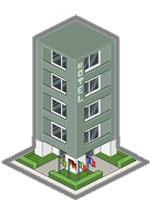
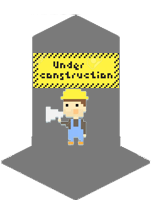
fix de quelques bug

diff --git a/src/server/CityUpdater.cpp b/src/server/CityUpdater.cpp
@@ -2,6 +2,7 @@
 #include "UserManager.hpp"
 
 pthread_mutex_t CityUpdater::visitormutex(PTHREAD_MUTEX_INITIALIZER);
+pthread_mutex_t CityUpdater::buildingmutex(PTHREAD_MUTEX_INITIALIZER);
 
 
 
@@ -150,7 +151,7 @@ CityUpdater::CityUpdater(Map<Field>* map,std::vector<Player*>* pvPtr, Gamemode g
 
 void CityUpdater::run(){
     currentTimer.start();
-    Timer<CityUpdater> generateTimer(this, 1), advanceTimer(this, 0), buildingTimer(this, 4), roadBlockTimer(this, 20), payTimer(this, 86400), cityTimer(this);
+    Timer<CityUpdater> generateTimer(this, 1), advanceTimer(this, 0), buildingTimer(this, 4), roadBlockTimer(this, 20), payTimer(this, 48), cityTimer(this);
     generateTimer.setFunc(CityUpdater::runGenerateVisitors);
     advanceTimer.setFunc(CityUpdater::runMakeVisitorsAdvance);
     buildingTimer.setFunc(CityUpdater::runUpdateBuidlings);
@@ -164,19 +165,21 @@ void CityUpdater::run(){
 
 void CityUpdater::runGenerateVisitors(void* object){
     pthread_mutex_lock(&visitormutex);
-    //std::cout<<"generatevisitor"<<std::endl;
+    std::cout<<"generatevisitor"<<std::endl;
     void (CityUpdater::*func_ptr) (void) = &CityUpdater::generateVisitors;
     for(int i = 0;i<3;i++){
         ((static_cast<CityUpdater*>(object))->*func_ptr)();
-    }
+    }    
+    std::cout<<"finish generatevisitor"<<std::endl;
     pthread_mutex_unlock(&visitormutex);
 }
 
 void CityUpdater::runMakeVisitorsAdvance(void* object){
     pthread_mutex_lock(&visitormutex);
-    //std::cout<<"advancevisitors"<<std::endl;
+    std::cout<<"advancevisitors"<<std::endl;
     void (CityUpdater::*func_ptr) (void) = &CityUpdater::makeVisitorsAdvance;
     ((static_cast<CityUpdater*>(object))->*func_ptr)();
+    std::cout<<"finsih advancevisitors"<<std::endl;
     pthread_mutex_unlock(&visitormutex);
 }
 
@@ -189,15 +192,23 @@ void CityUpdater::runUpdateRoadBlocks(void* object){
 }
 
 void CityUpdater::runUpdateBuidlings(void* object){
-    //std::cout<<"updatebuilding"<<std::endl;
+    pthread_mutex_lock(&buildingmutex);
+    std::cout<<"updatebuilding"<<std::endl;
     void (CityUpdater::*func_ptr) (void) = &CityUpdater::updateBuildings;
     ((static_cast<CityUpdater*>(object))->*func_ptr)();
+    std::cout<<"finish updatebuilding"<<std::endl;
+    pthread_mutex_unlock(&buildingmutex);
+
 }
 
 void CityUpdater::runMakeOwnersPay(void* object){
-    //std::cout<<"payowner"<<std::endl;
+    pthread_mutex_unlock(&buildingmutex);
+    std::cout<<"payowner"<<std::endl;
     void (CityUpdater::*func_ptr) (void) = &CityUpdater::makeOwnersPay;
     ((static_cast<CityUpdater*>(object))->*func_ptr)();
+    std::cout<<"finish payowner"<<std::endl;
+    pthread_mutex_unlock(&buildingmutex);
+
 }
 
 void CityUpdater::runUpdateCity(void* object){
@@ -443,7 +454,7 @@ void CityUpdater::updateRoadBlocks(){
 }
 
 void CityUpdater::updateBuildings(){
-    std::cout<<"updating buldings"<<std::endl;
+    //std::cout<<"updating buldings"<<std::endl;
     Location currentLocation;
     SocketMessage update;
     Field* concernedField;
@@ -454,10 +465,10 @@ void CityUpdater::updateBuildings(){
                 if(concernedField->hasBuilding()){
                     concernedField->getBuilding()->removeVisitor();
                     if(concernedField->getBuilding()->getStatus() == "construction"){
-                        std::cout<<row<<", "<<col<<"in construction"<<std::endl;
+                        //std::cout<<row<<", "<<col<<"in construction"<<std::endl;
                         int res = concernedField->getBuilding()->getTurnToFinish();
                         if(res == 0){
-                            std::cout<<row<<", "<<col<<"finish to increase"<<std::endl;
+                            //std::cout<<row<<", "<<col<<"finish to increase"<<std::endl;
                             concernedField->getBuilding()->setStatus("normal");
                             concernedField->getBuilding()->renitTurnToFinish();
                             refreshBuildingsList();
@@ -472,10 +483,10 @@ void CityUpdater::updateBuildings(){
                         }                       
                     }
                     else if(concernedField->getBuilding()->getStatus() == "destruction"){
-                        std::cout<<row<<", "<<col<<"in destruction"<<std::endl;
+                        //std::cout<<row<<", "<<col<<"in destruction"<<std::endl;
                         int res = concernedField->getBuilding()->getTurnToFinish();
                         if(res == 0){                            
-                            std::cout<<row<<", "<<col<<"finish to increase"<<std::endl;
+                            //std::cout<<row<<", "<<col<<"finish to increase"<<std::endl;
                             concernedField->destroyBuilding();
                             refreshBuildingsList();
                             update.setTopic("destroy");

diff --git a/src/client/ClientManager.cpp b/src/client/ClientManager.cpp
@@ -42,12 +42,12 @@ void ClientManager::buildMap(std::string filename){
         delete map;
     }
     map = new Map<ClientField>(filename);
-    std::cout<<"setting for full update"<<std::endl;
+    //std::cout<<"setting for full update"<<std::endl;
     setRequest("mapfullupdate");
     /*** Bloqué tant que la map n'est pas totalement construite ***/
-    std::cout<<"try to full update"<<std::endl;
+    //std::cout<<"try to full update"<<std::endl;
     sendRequestAndRecv();
-    std::cout<<"passed"<<std::endl;
+    //std::cout<<"passed"<<std::endl;
     Timer<ClientManager> t = Timer<ClientManager>::parseTimer(getInfo("timer"));
     timer = new Timer<ClientManager>(t);
     timer->setObject(this);

diff --git a/src/server/CityManager.cpp b/src/server/CityManager.cpp
@@ -231,6 +231,7 @@ SocketMessage CityManager::buildBuilding(Player* player, Location location, Buil
                     update.set("location", location.toString());
                     update.set("typeindex", std::to_string(BuildingType::getIndexByType(buildingType)));
                     update.set("level", std::to_string(concernedField->getBuilding()->getLevel()));
+                    update.set("status", concernedField->getBuilding()->getStatus());
                     updater->sendUpdateToPlayers(update);
                     message.setTopic("success");
                     message.set("reason", "Building is being built !");

diff --git a/src/server/request/request.cpp b/src/server/request/request.cpp
@@ -280,6 +280,7 @@ SocketMessage RequestSystem::mapfullupdate(CityLordServer* server, UserManager* 
                     update.set("location", field->getLocation().toString());
                     update.set("typeindex", std::to_string(BuildingType::getIndexByType(field->getBuilding()->getType())));
                     update.set("level", std::to_string(field->getBuilding()->getLevel()));
+                    update.set("status", field->getBuilding()->getStatus());
                     userManager->sendUpdate(update);
                 }
             }

diff --git a/src/client/update/update.cpp b/src/client/update/update.cpp
@@ -30,6 +30,8 @@ void UpdateSystem::build(ClientManager* client, SocketMessage update){
     BuildingType type = BuildingType::getTypeByIndex(std::stoi(update.get("typeindex")));
     ClientField* field = dynamic_cast<ClientField*>(client->getMap()->getCase(location));
     field->buildBuilding(type, level);
+    //std::cout<<"updatestatus = "<<update.get("status")<<std::endl;
+    field->getBuilding()->setStatus(update.get("status"));
     client->repaint();
     pthread_mutex_unlock(&updatemutex);
 }

diff --git a/src/common/models/Timer.hpp b/src/common/models/Timer.hpp
@@ -143,9 +143,9 @@ void Timer<T>::setSleeptime(int time){
 
 template <typename T>
 Timer<T> Timer<T>::parseTimer(std::string parse){
-    std::cout<<"string to parse = "<<parse<<std::endl;
+    //std::cout<<"string to parse = "<<parse<<std::endl;
     time_t now = std::stod(parse);
-    std::cout<<"HELLO"<<std::endl;
+    //std::cout<<"HELLO"<<std::endl;
     return Timer<T>(nullptr, 1, &now);
 }
 

diff --git a/src/server/CityUpdater.hpp b/src/server/CityUpdater.hpp
@@ -57,7 +57,7 @@ class CityUpdater : public Thread{
     adjacency_list_t adjacencyList;
     Timer<CityUpdater> currentTimer;
     public:
-        static pthread_mutex_t visitormutex;
+        static pthread_mutex_t visitormutex, buildingmutex;
     public:
         CityUpdater(Map<Field>*,std::vector<Player*>*, Gamemode);
         void run() override;

diff --git a/src/common/models/Field.cpp b/src/common/models/Field.cpp
@@ -60,9 +60,6 @@ string BasicField::getImageName(){
             imagename = "grass";
         }
     }
-    if(hasBuilding()){
-        std::cout<<"imagename = |"<<imagename<<"|"<<std::endl;
-    }
     return imagename;
 }
 
